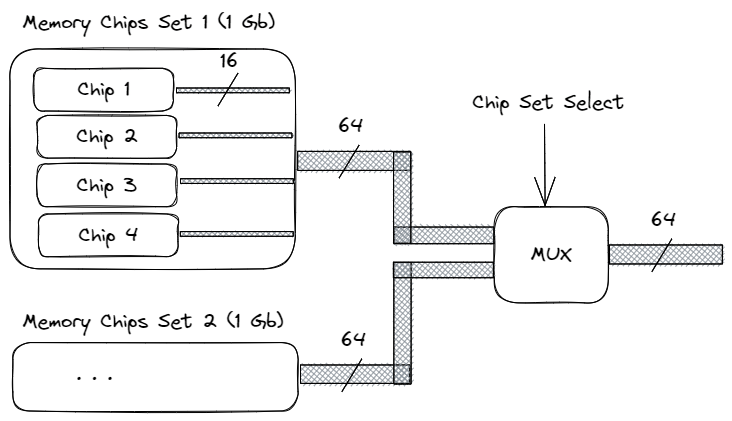
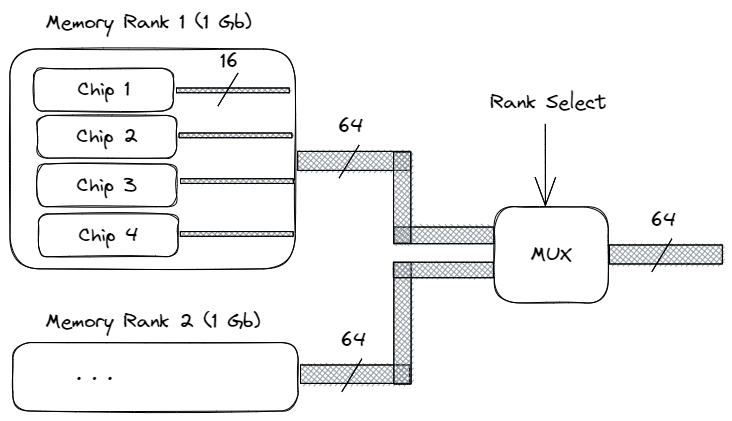
Fixed review comments

diff --git a/chapters/3-CPU-Microarchitecture/3-5 Memory Hierarchy.md b/chapters/3-CPU-Microarchitecture/3-5 Memory Hierarchy.md
@@ -107,11 +107,11 @@ It is worth to mention that DRAM chips require memory cells being periodically r
 
 DRAM module is organized as sets of DRAM chips. Memory *rank* is a term that describes how many sets of DRAM chips exist on a module. For example, a single-rank (1R) memory module contains one set of DRAM chips. A dual-rank (2R) memory module has two sets of DRAM chips, therefore doubling the capacity of a single-rank module. Likewise, there are quad-rank (4R) and octa-rank (8R) memory modules available for purchase.
 
-Each set of memory chips consists of multiple chips. Memory *width* defines the width of the bus of each chip in a set and consequently, the number of chips in a set. Memory width can be one of three values: `x4`, `x8` or `x16`, which define how wide is the bus that goes to each chip. As an example, figure @fig:Dram_ranks shows the organization of 2Rx16 dual-rank DRAM DDR4 module, total 2GB capacity. There are four chips in each set, with a 16-bit wide bus. Combined, the four chips provide 64-bit output. The two ranks are selected one at a time through a chip set select signal.
+Each rank consists of multiple DRAM chips. Memory *width* defines how wide the bus of each DRAM chip is. And since each rank is 64-bits wide (or 72-bits wide for ECC RAM), it also defines the number of DRAM chips present within the rank. Memory width can be one of three values: `x4`, `x8` or `x16`, which define how wide is the bus that goes to each chip. As an example, figure @fig:Dram_ranks shows the organization of 2Rx16 dual-rank DRAM DDR4 module, total 2GB capacity. There are four chips in each rank, with a 16-bit wide bus. Combined, the four chips provide 64-bit output. The two ranks are selected one at a time through a rank select signal.
 
 ![Organization of 2Rx16 dual-rank DRAM DDR4 module, total 2GB capacity.](../../img/uarch/DRAM_ranks.png){#fig:Dram_ranks width=80%}
 
-There is no direct answer whether performance of single-rank or dual-rank is better as it depends on the type of application. Switching from one rank to another through chip select signal needs additional clock cycles, which may increase the access latency. On the other hand, if a rank is not accessed, it can go through its refresh cycles in parallel while other ranks are busy. As soon as the previous rank completes data transmission, the next rank can immediately start its transmission. Also, single-rank modules produce less heat and are less likely to fail.
+There is no direct answer whether performance of single-rank or dual-rank is better as it depends on the type of application. Switching from one rank to another through rank select signal needs additional clock cycles, which may increase the access latency. On the other hand, if a rank is not accessed, it can go through its refresh cycles in parallel while other ranks are busy. As soon as the previous rank completes data transmission, the next rank can immediately start its transmission. Also, single-rank modules produce less heat and are less likely to fail.
 
 Going further, we can install multiple DRAM modules in a system to not only increase memory capacity, but also memory bandwidth. Setups with multiple memory channels are used to scale up the communication speed between the memory controller and the DRAM.
 
@@ -136,11 +136,10 @@ It's important to watch out for utilized memory bandwidth, because once it becom
 
 #### GDDR and HBM
 
-Besides multi-channel DDR, there are other technologies that target workloads where higher memory bandwidth is required to achieve greater performance. Technologies such as GDDR (Graphics DDR) and HBM (High Bandwidth Memory) are the most notable ones. They find their use in high-end graphics, high-performance computing such as climate modeling, molecular dynamics, physics simulation, but also in autonomous driving, and of course, AI/ML. They are a natural fit there because such application require to move large amounts of data very quickly.
+Besides multi-channel DDR, there are other technologies that target workloads where higher memory bandwidth is required to achieve greater performance. Technologies such as GDDR (Graphics DDR) and HBM (High Bandwidth Memory) are the most notable ones. They find their use in high-end graphics, high-performance computing such as climate modeling, molecular dynamics, physics simulation, but also in autonomous driving, and of course, AI/ML. They are a natural fit there because such applications require moving large amounts of data very quickly.
 
-GDDR was primary designed for graphics and nowadays it is used on virtually every high-performance graphics card. While GDDR shares some charasteristics with DDR, it is also quite different. While DRAM DDR is designed for lower latencies, GDDR is built for much higher bandwidth, because it is located in the same package as the processor chip itself. Similar to DDR, the GDDR interface transfers two 32 bit (64-bit total) wide data words per clock cycle. The latest GDDR6X standard can achieve up to 168 GB/s bandwidth, operating at relatively low 656 MHz frequency.
+GDDR was primary designed for graphics and nowadays it is used on virtually every high-performance graphics card. While GDDR shares some charasteristics with DDR, it is also quite different. While DRAM DDR is designed for lower latencies, GDDR is built for much higher bandwidth, because it is located in the same package as the processor chip itself. Similar to DDR, the GDDR interface transfers two 32 bit (64-bit total) wide data words per clock cycle. The latest GDDR6X standard can achieve up to 168 GB/s bandwidth, operating at a relatively low 656 MHz frequency.
 
-HBM is a new type of CPU/GPU memory that vertically stacks memory chips, also called 3D stacking. Similar to GDDR, HBM drastically shortens the distance data needs to travel to reach a processor. The main difference from DDR and GDDR, is that HBM memory bus is very wide: 1024 bits per each HBM stacks. It allows HBM to achieve ultra-high bandwidth. The latest HBM3 standard supports 665 GB/s bandwidth per package. It also operates at a low frequency of 500 Mhz and has a
-memory density of up to 48 GB per package.
+HBM is a new type of CPU/GPU memory that vertically stacks memory chips, also called 3D stacking. Similar to GDDR, HBM drastically shortens the distance data needs to travel to reach a processor. The main difference from DDR and GDDR, is that HBM memory bus is very wide: 1024 bits per each HBM stacks. It allows HBM to achieve ultra-high bandwidth. The latest HBM3 standard supports up to 665 GB/s bandwidth per package. It also operates at a low frequency of 500 Mhz and has a memory density of up to 48 GB per package.
 
-A system with HBM onboard will be a good choice if you're looking to get as much memory bandwidth as you can get. However, at the time of writing, this technology is quite expensive. As GDDR is predominantly used in graphics cards, HBM may be a good option to accelerate certain workloads that run on CPU. Indeed, we start seeing first x86 general purpose server chips with integrated HBM.
+A system with HBM onboard will be a good choice if you're looking to get as much memory bandwidth as you can get. However, at the time of writing, this technology is quite expensive. As GDDR is predominantly used in graphics cards, HBM may be a good option to accelerate certain workloads that run on CPU. In fact, we start seeing first x86 general purpose server chips with integrated HBM.
